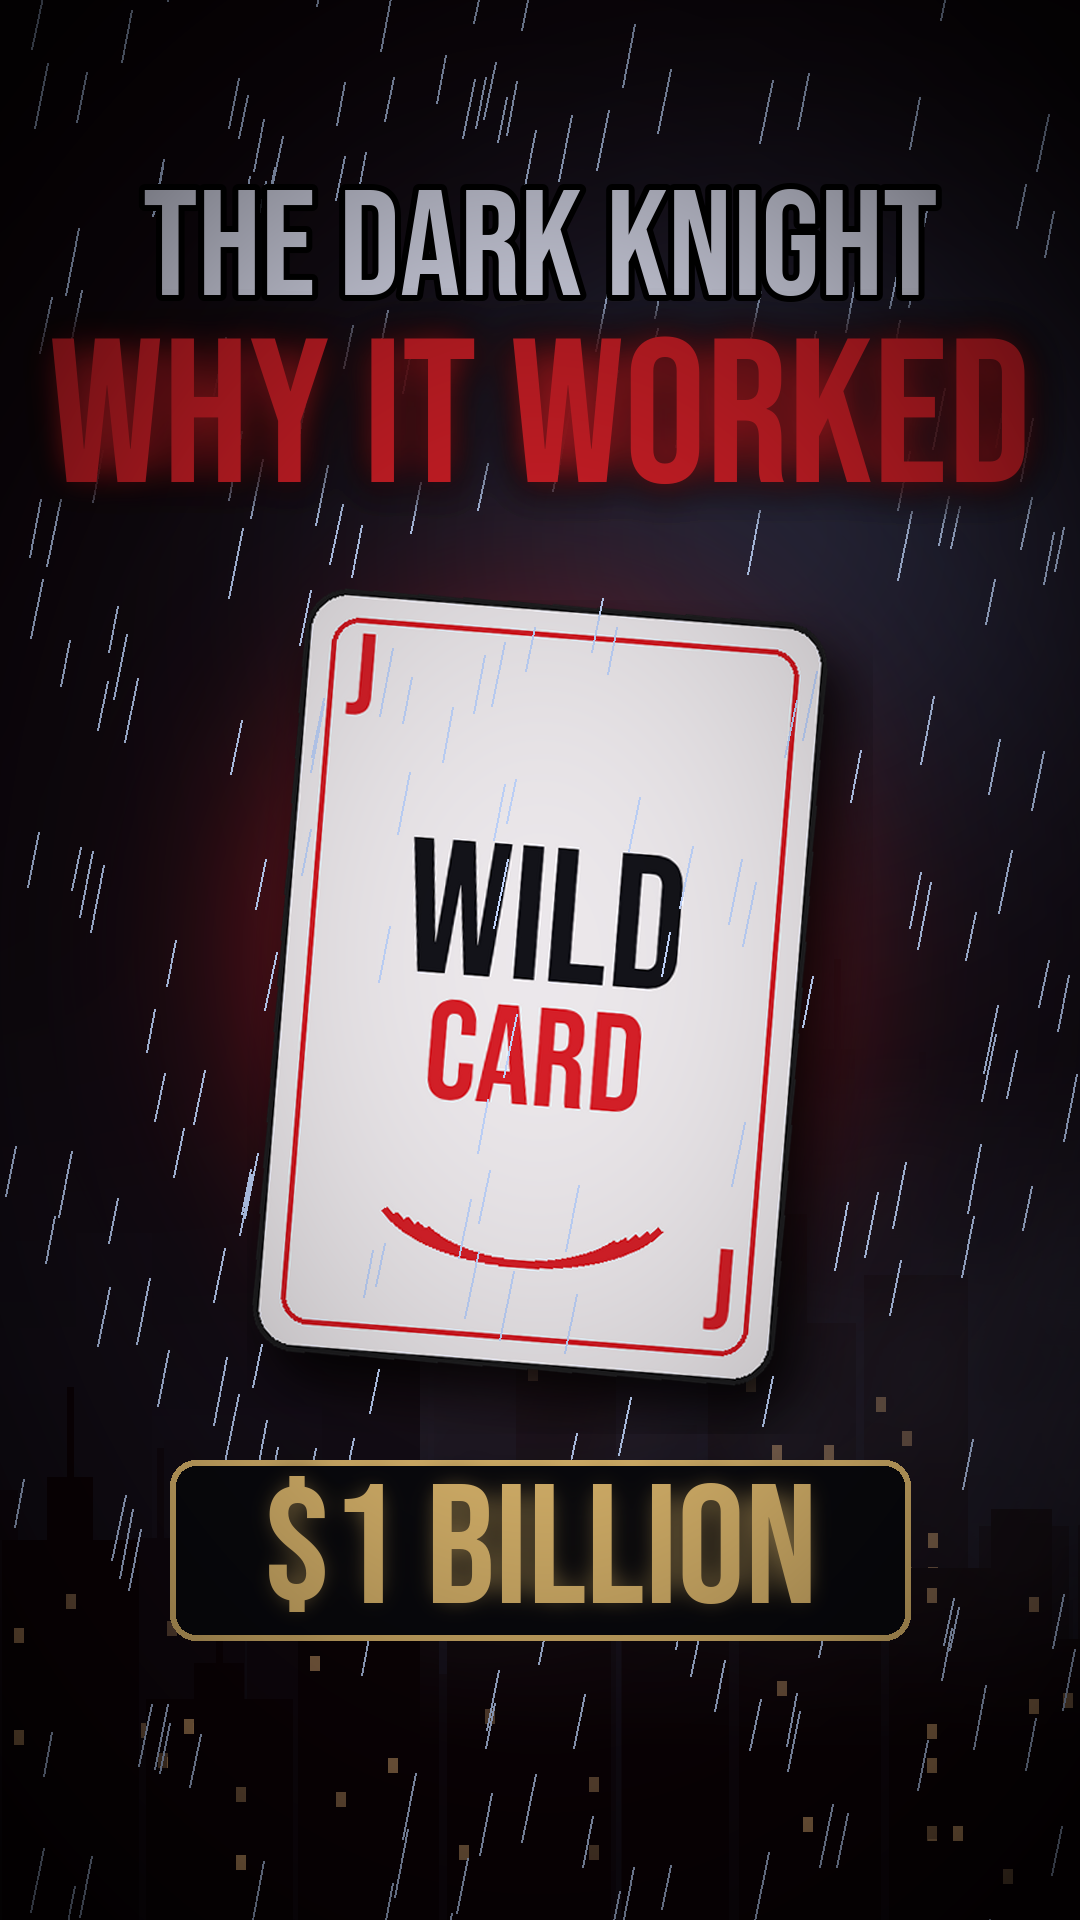
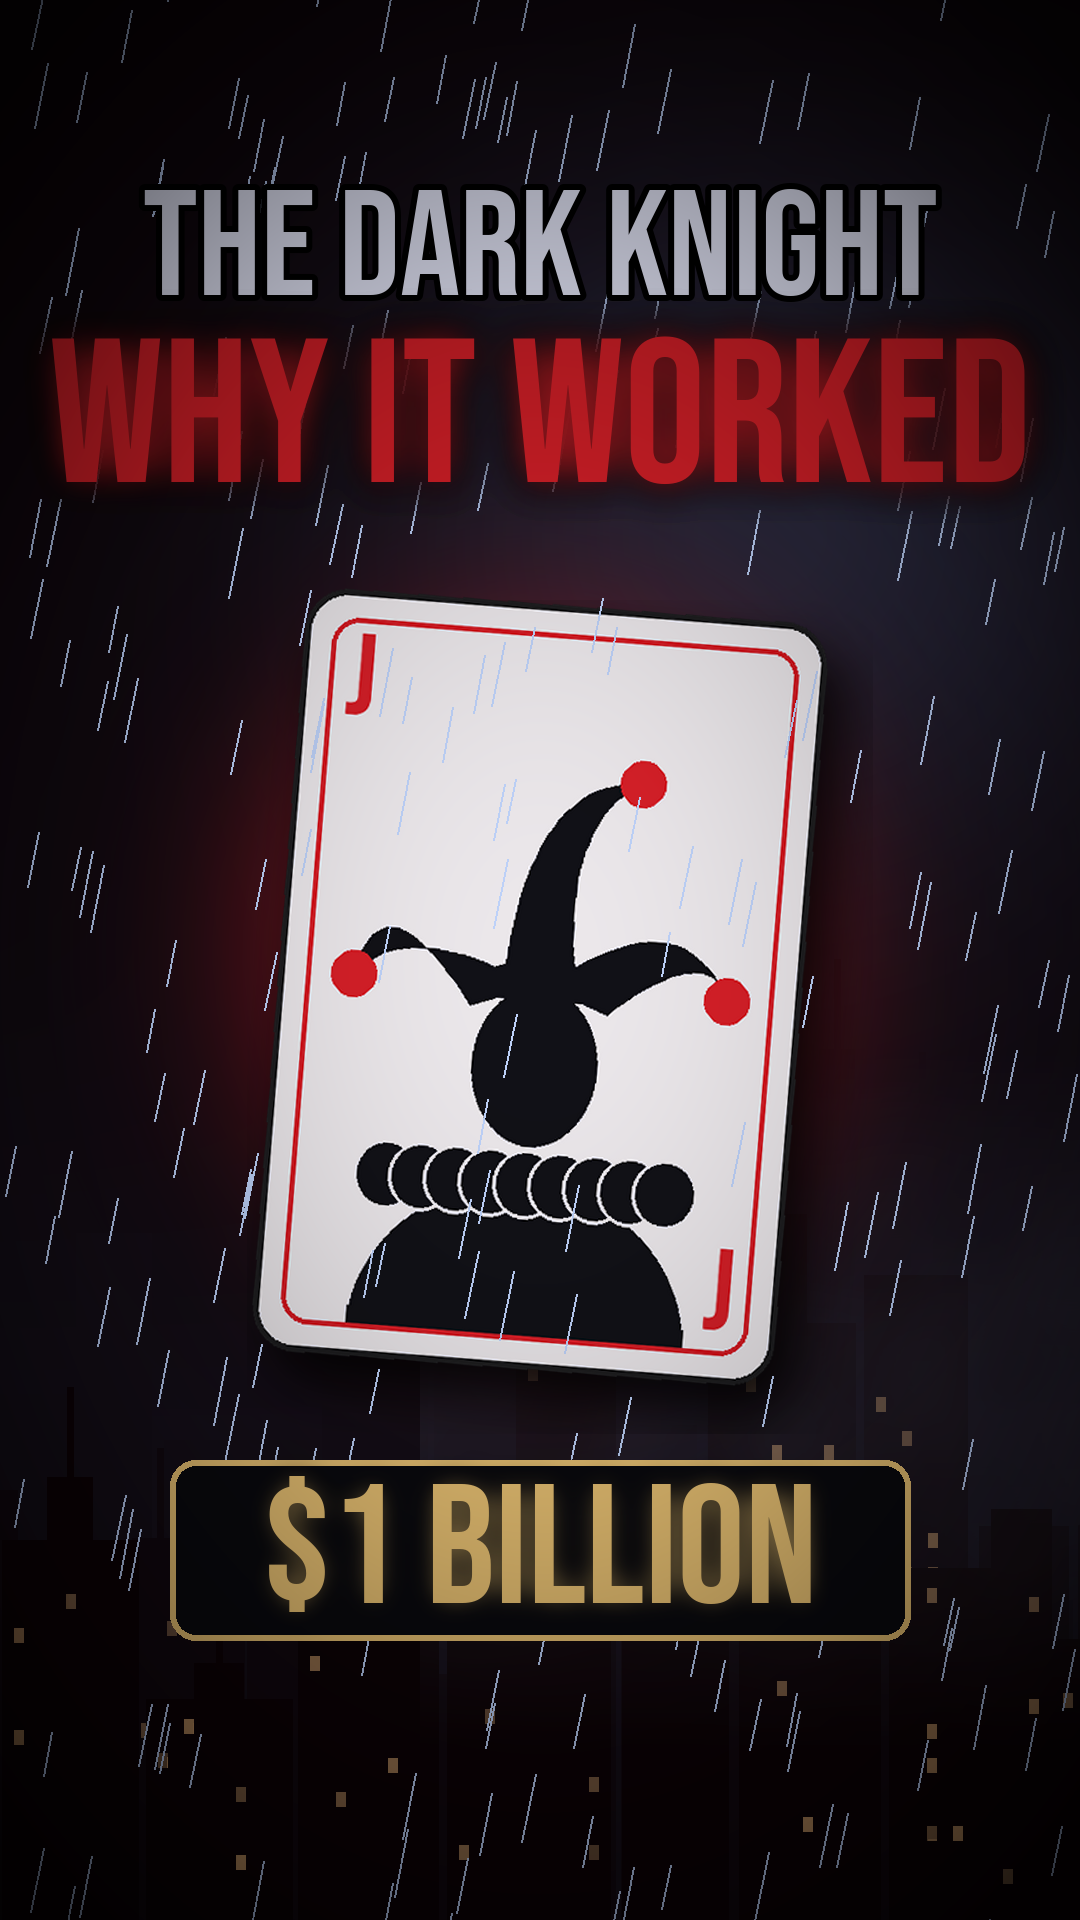
Thumbnail: classic jester silhouette on the joker card
Claude-Session: https://claude.ai/code/session_01F1xGQC277mBx377WLAN5Fg

Changed region(s): [[0.3056, 0.375, 0.7028, 0.7188]]

diff --git a/shorts/dark_knight/render.py b/shorts/dark_knight/render.py
@@ -125,8 +125,36 @@ def glow_text(im, y, s, f, fill, radius=18, strength=1.6, x=None):
 
 
 # ------------------------------------------------------------ scene pieces
-def card(t0, t):
-    """A generic joker playing card spinning in, with a red wild-card mark."""
+def _bez(p0, p1, p2, n=24):
+    return [((1 - u) ** 2 * p0[0] + 2 * (1 - u) * u * p1[0] + u * u * p2[0],
+             (1 - u) ** 2 * p0[1] + 2 * (1 - u) * u * p1[1] + u * u * p2[1]) for u in np.linspace(0, 1, n)]
+
+
+def draw_jester(d, cx):
+    """Classic playing-card court jester silhouette: three-point bell hat, scalloped ruff, shoulders."""
+    ink, bell = (18, 18, 22, 255), (*RED, 255)
+    d.ellipse([cx - 135, 455, cx + 135, 700], fill=ink)  # shoulders (clipped by card border later)
+    d.rectangle([cx - 135, 560, cx + 135, 600], fill=ink)
+    for i in range(9):  # scalloped ruff
+        x = cx - 112 + i * 28
+        d.ellipse([x - 26, 428, x + 26, 482], fill=ink, outline=(236, 232, 222, 255), width=3)
+    d.ellipse([cx - 50, 300, cx + 50, 425], fill=ink)  # head
+    # three curved hat points, each a tapered curve ending in a bell
+    tips = []
+    for (base_l, base_r, ctrl, tip) in (((cx - 55, 318), (cx - 5, 300), (cx - 120, 230), (cx - 150, 300)),
+                                        ((cx + 5, 300), (cx + 55, 318), (cx + 120, 230), (cx + 150, 300)),
+                                        ((cx - 30, 305), (cx + 30, 305), (cx - 10, 150), (cx + 70, 135))):
+        outer = _bez(base_l, (ctrl[0] - 12, ctrl[1] - 14), tip)
+        inner = _bez(tip, (ctrl[0] + 14, ctrl[1] + 22), base_r)
+        d.polygon(outer + inner, fill=ink)
+        tips.append(tip)
+    d.chord([cx - 60, 280, cx + 60, 340], 180, 360, fill=ink)  # hat crown
+    for bx, by in tips:
+        d.ellipse([bx - 18, by - 18, bx + 18, by + 18], fill=bell)
+
+
+def card(t0, t, jester=False):
+    """A generic joker playing card spinning in, with a red wild-card mark (or a jester)."""
     cw, ch = 420, 600
     c = Image.new("RGBA", (cw, ch), (0, 0, 0, 0))
     d = ImageDraw.Draw(c)
@@ -134,11 +162,20 @@ def card(t0, t):
     d.rounded_rectangle([22, 22, cw - 23, ch - 23], 22, outline=(*RED, 255), width=4)
     for (px, py, an) in ((48, 70, "mm"), (cw - 48, ch - 70, "mm")):
         d.text((px, py), "J", font=font(BEBAS, 92), fill=(*RED, 255), anchor=an)
-    d.text((cw // 2, 250), "WILD", font=font(BEBAS, 150), fill=(20, 20, 24, 255), anchor="mm")
-    d.text((cw // 2, 360), "CARD", font=font(BEBAS, 110), fill=(*RED, 255), anchor="mm")
-    for i in range(5):  # scratchy red strokes
-        a = 0.4 + i * 0.5
-        d.arc([90 + i * 6, 410, 330 - i * 6, 520], 20 + i * 4, 160 - i * 4, fill=(*RED, 255), width=6)
+    if jester:
+        lay = Image.new("RGBA", (cw, ch), (0, 0, 0, 0))
+        draw_jester(ImageDraw.Draw(lay), cw // 2)
+        m = Image.new("L", (cw, ch), 0)
+        ImageDraw.Draw(m).rounded_rectangle([26, 26, cw - 27, ch - 27], 20, fill=255)
+        c.paste(lay, (0, 0), Image.composite(lay.getchannel("A"), m, m).point(lambda v: v))
+        d.rounded_rectangle([22, 22, cw - 23, ch - 23], 22, outline=(*RED, 255), width=4)
+        for (px, py) in ((48, 70), (cw - 48, ch - 70)):
+            d.text((px, py), "J", font=font(BEBAS, 92), fill=(*RED, 255), anchor="mm")
+    else:
+        d.text((cw // 2, 250), "WILD", font=font(BEBAS, 150), fill=(20, 20, 24, 255), anchor="mm")
+        d.text((cw // 2, 360), "CARD", font=font(BEBAS, 110), fill=(*RED, 255), anchor="mm")
+        for i in range(5):  # scratchy red strokes
+            d.arc([90 + i * 6, 410, 330 - i * 6, 520], 20 + i * 4, 160 - i * 4, fill=(*RED, 255), width=6)
     p = ease(seg(t, t0, t0 + 0.9))
     sx = max(abs(math.cos((1 - p) * math.pi * 2.5)), 0.03)
     c = c.resize((max(int(cw * sx), 2), ch), Image.BICUBIC)

diff --git a/shorts/dark_knight/thumbnail.py b/shorts/dark_knight/thumbnail.py
@@ -14,7 +14,7 @@ im.alpha_composite(Image.new("RGBA", im.size, (40, 0, 0, 70)))
 glow = Image.new("RGBA", im.size, (0, 0, 0, 0))
 ImageDraw.Draw(glow).ellipse([190, 560, 890, 1340], fill=(*R.RED, 150))
 im.alpha_composite(glow.filter(ImageFilter.GaussianBlur(120)))
-card = R.card(0, 5).resize((546, 780), Image.BICUBIC).rotate(-6, Image.BICUBIC, expand=True)
+card = R.card(0, 5, jester=True).resize((546, 780), Image.BICUBIC).rotate(-6, Image.BICUBIC, expand=True)
 sh = Image.new("RGBA", card.size, (0, 0, 0, 0))
 sh.putalpha(card.getchannel("A").point(lambda v: v * 0.8))
 im.alpha_composite(sh.filter(ImageFilter.GaussianBlur(25)), (R.W // 2 - card.width // 2 + 20, 600))
